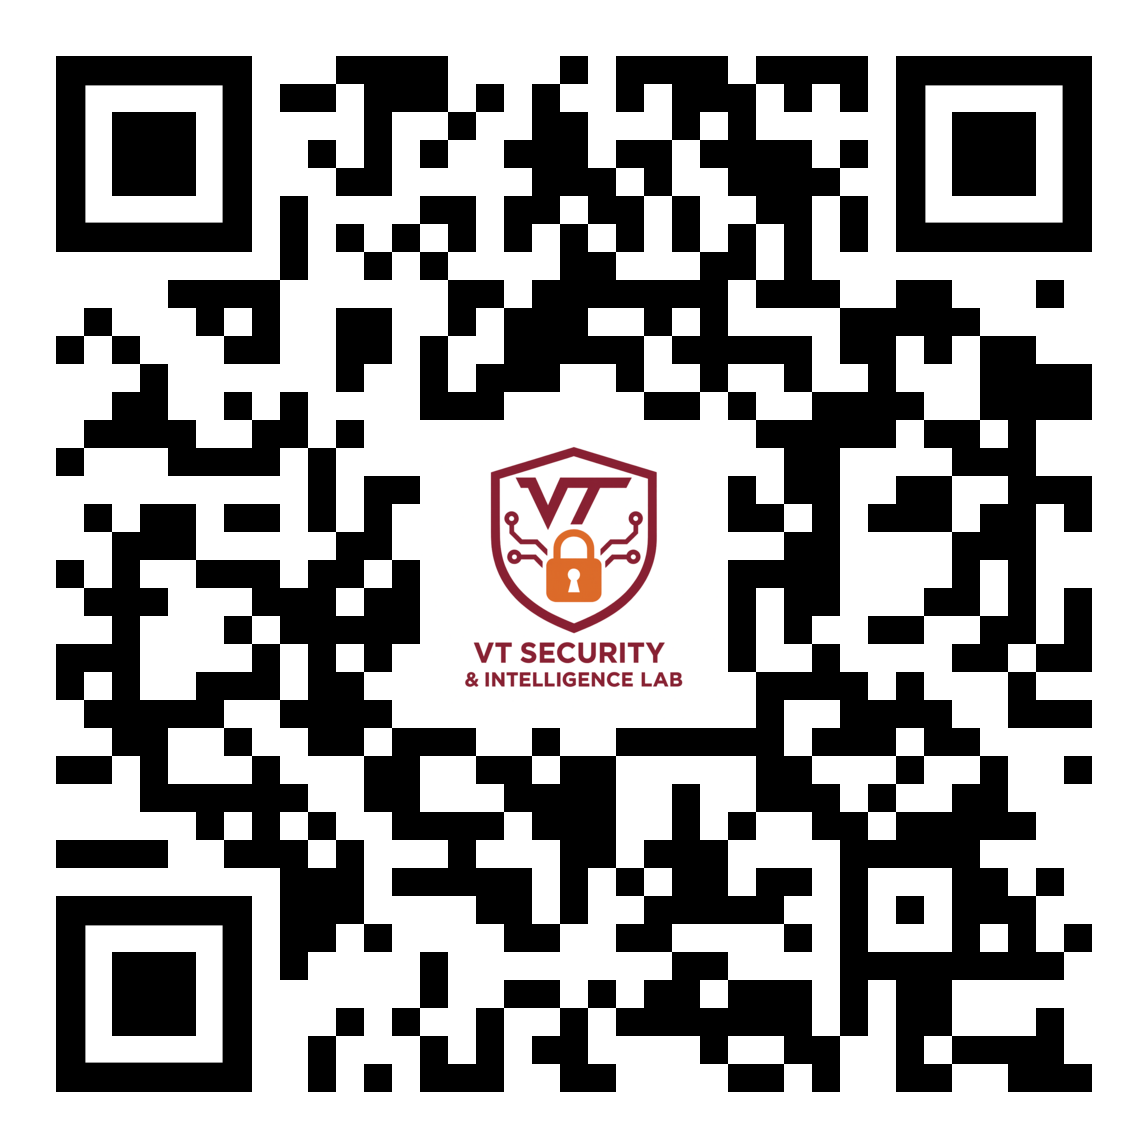
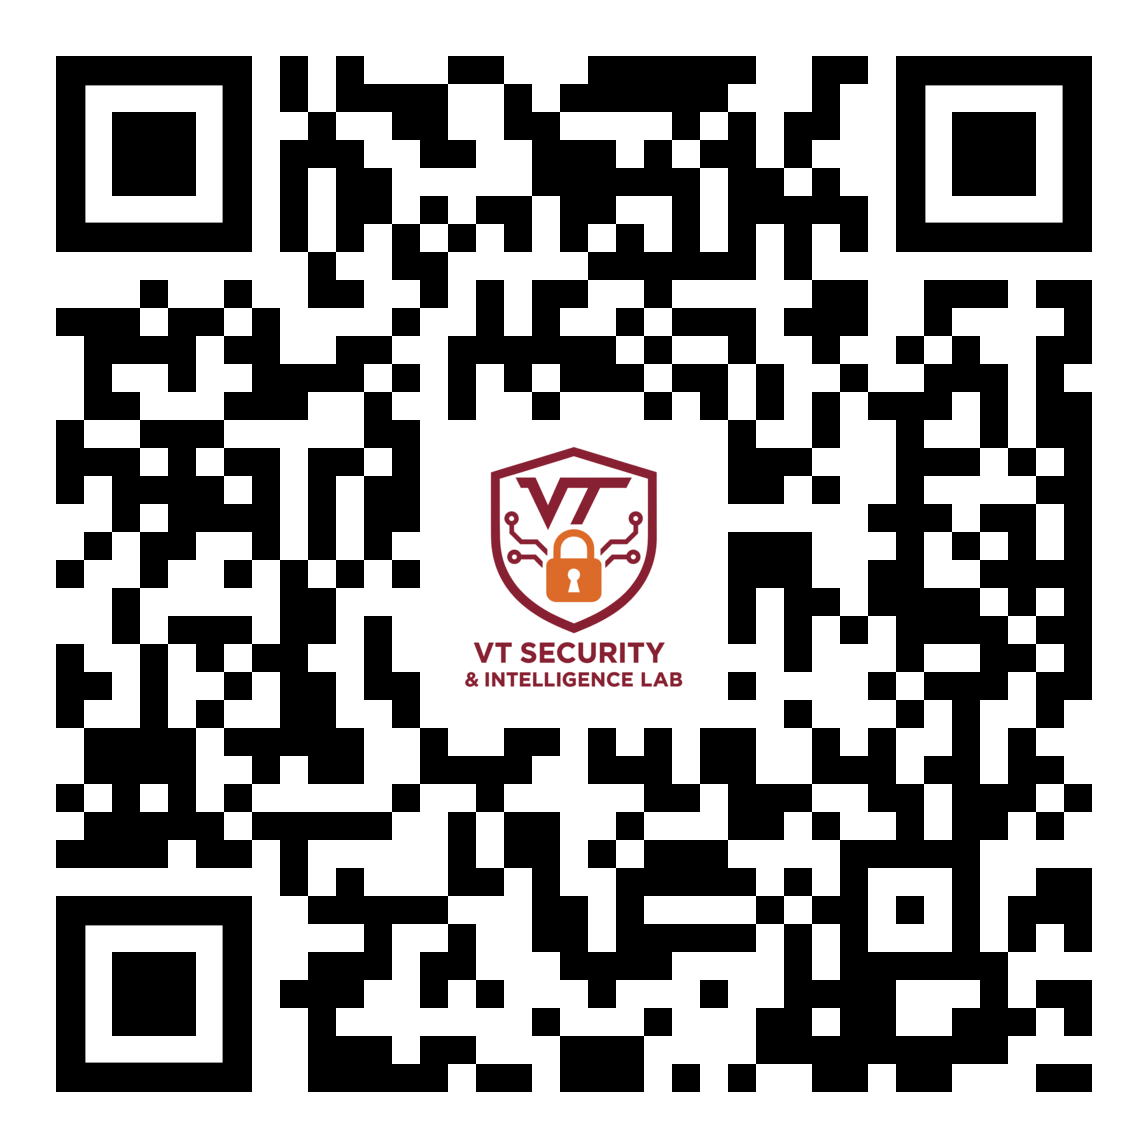
chore: update registration link and qr code

Changed region(s): [[0.0305, 0.0305, 0.9756, 0.9756]]

diff --git a/prism-workshop/index.html b/prism-workshop/index.html
@@ -808,7 +808,7 @@
                     <p style="color: var(--text-secondary);">
                         If you wish to receive free access to OpenAI keys, register here using the link or by scanning the QR code.
                     </p>
-                    <a href="https://forms.gle/QMGUGF6sSRMyxyzeA" target="_blank" rel="noopener noreferrer" class="registration-link">
+                    <a href="https://forms.gle/6oXEyLW6zqQsXMyt5" target="_blank" rel="noopener noreferrer" class="registration-link">
                         <i class="fas fa-up-right-from-square"></i> Register
                     </a>
                 </div>
